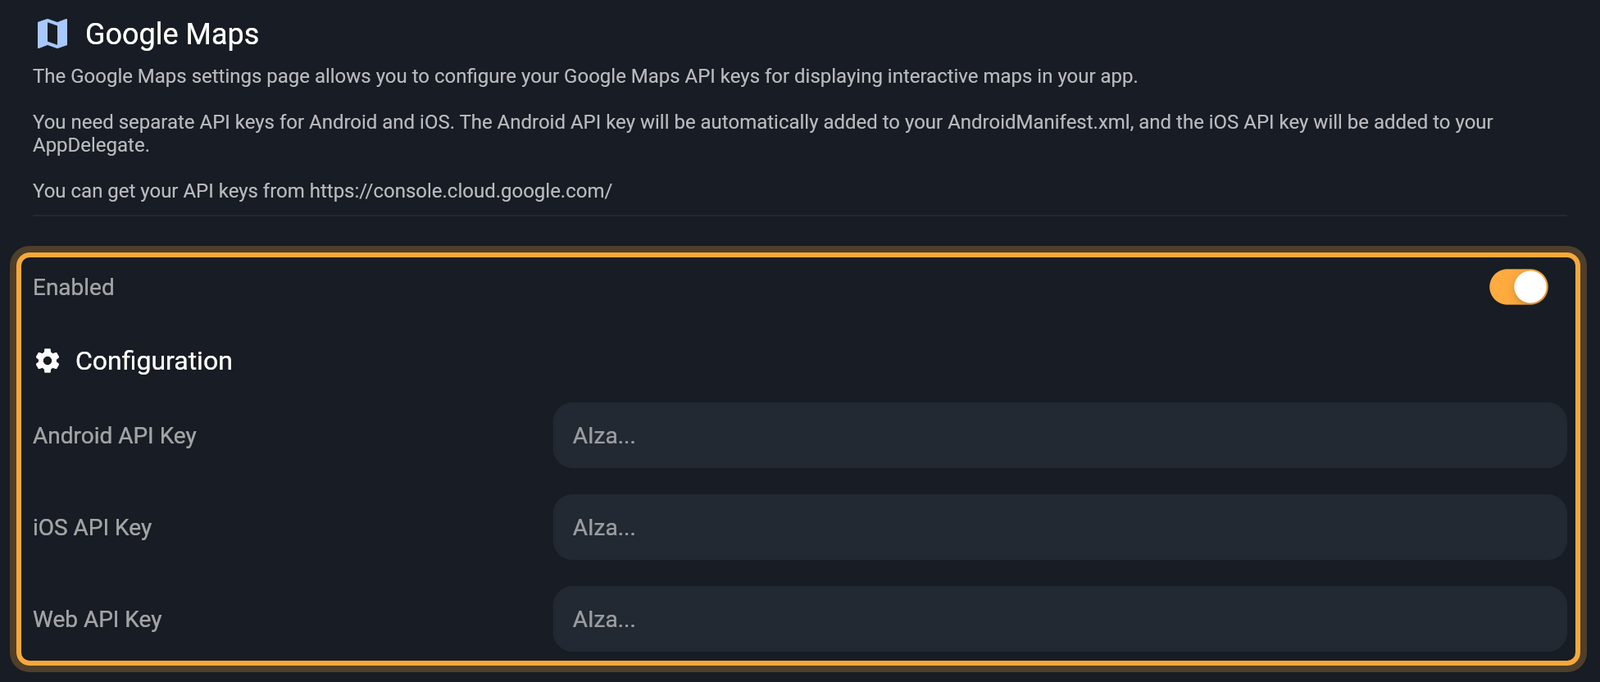
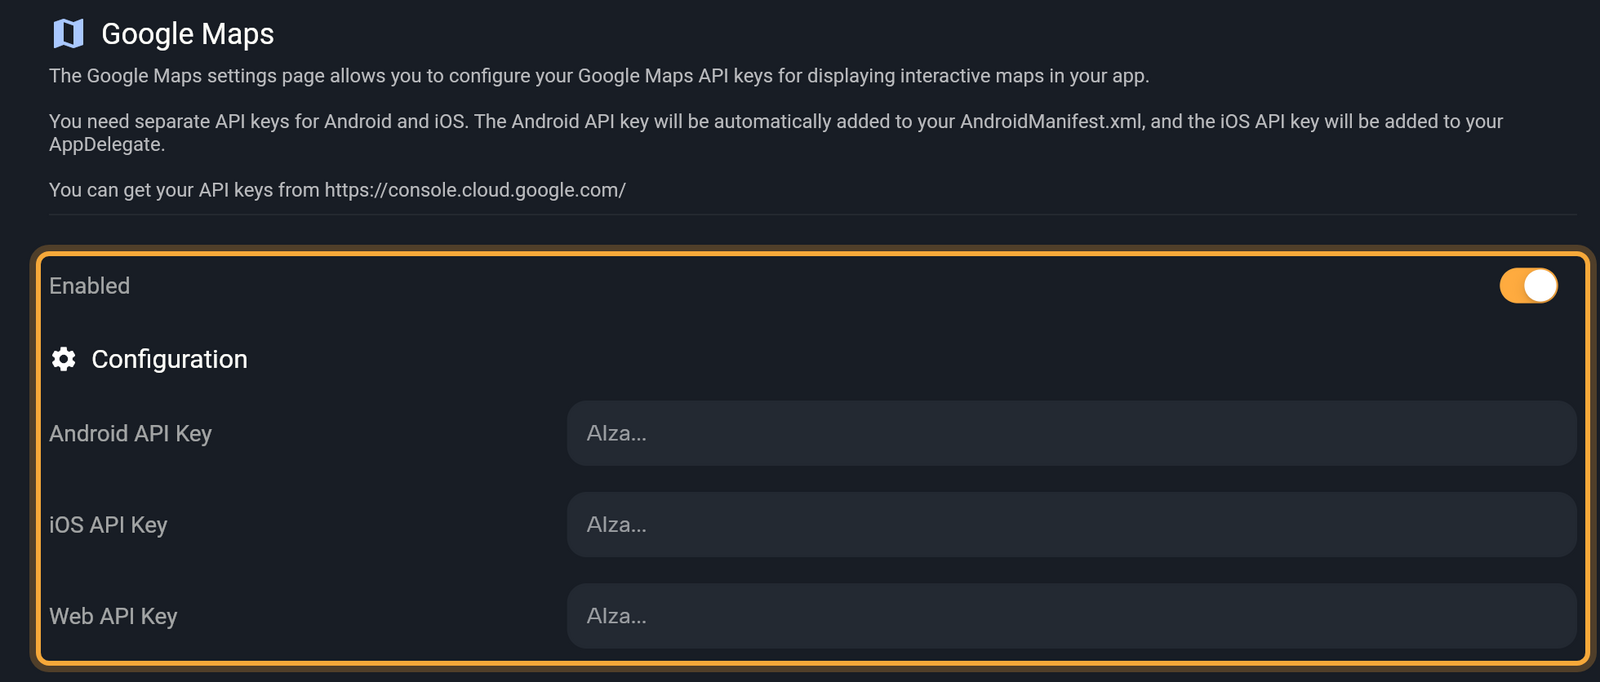
Update the editor and design pages to Nowa 3.13; add the Library page
New page Find and add things with the Library (design/library), added to the
sidebar before Add widgets. Add widgets, components, boards, screens, select and
edit, outline, the editor tour, welcome, desktop app (Linux) and the glossary
now describe 3.13 (W30a, to be verified).

Claude-Session: https://claude.ai/code/session_01CvjREJT7NCVTsCb3JhoYvz

diff --git a/sidebars.js b/sidebars.js
@@ -59,6 +59,7 @@ const sidebars = {
         'design/boards',
         'design/screens',
         'design/components',
+        'design/library',
         'design/add-widgets',
         'design/select-and-edit',
         'design/properties',

diff --git a/docs/code/packages.md b/docs/code/packages.md
@@ -38,6 +38,8 @@ A few packages need phone permissions, such as `geolocator` for location. For th
 
 In a local project Nowa also runs `flutter pub get`.
 
+Leave the **Version** of a package with a `git:` or `path:` source empty. A version you type there replaces its `git:` or `path:` entry in `pubspec.yaml`.
+
 ## Remove a package
 
 Point at the package's **Version** and click the **×** at its right end. Nowa removes it from `pubspec.yaml` and unloads it. In a local project it also runs `flutter pub get`.
@@ -46,20 +48,31 @@ Code that still imports the package shows a problem: `'<name>' is imported but i
 
 ## How Nowa loads your packages
 
-- **Plain pub.dev packages only.** Nowa loads the packages under `dependencies` that list only a version. A package from Git, a local path or another host, an `sdk:` package, and anything under `dev_dependencies` isn't loaded. If your code imports a dev dependency, **Problems** says `'<name>' is a dev dependency, so Nowa does not load it. Move it to dependencies to use it in lib/.`
+- **pub.dev, Git and path packages.** Nowa loads the packages under `dependencies` that list a version. It also lists packages with a `git:` or `path:` source, with an empty **Version** in the table, and in a local project loads them from where `flutter pub get` put them. An `sdk:` package such as `flutter_localizations` counts as installed but isn't loaded. A package from another host and anything under `dev_dependencies` isn't loaded. If your code imports a dev dependency, **Problems** says `'<name>' is a dev dependency, so Nowa does not load it. Move it to dependencies to use it in lib/.`
 - **Only the packages you list.** Packages that your packages depend on aren't loaded for you. If your code imports one, add it to your list too.
 - **After the project opens.** Packages load in the background. **Problems** shows "Loading packages..." and reports nothing until they finish.
 - **When one won't load.** **Problems** says `'<name>' is installed but failed to load, so nothing it defines is available:` and gives the reason.
-- **Built-in support or placeholders.** Nowa has built-in support for popular packages, such as `provider`, `go_router`, `dio`, `shared_preferences`, `flutter_svg`, `lottie` and `rive`. For any other package, Nowa reads what it offers, but its widgets show as placeholders on the board and its functions return stand-in values. **Run** uses the real package. See [What Nowa can show on the board](limitations.md).
-- **`nowa_runtime`.** Nowa keeps it at the version your Nowa release expects, so a version you type for it is reset when the project opens.
+- **Built-in support or placeholders.** Nowa has built-in support for popular packages, such as `provider`, `go_router`, `dio`, `shared_preferences`, `flutter_svg`, `lottie`, `rive`, `gap`, `flutter_animate`, `google_fonts` and `smooth_page_indicator`. For any other package, Nowa reads what it offers, but its widgets show as placeholders on the board and its functions return stand-in values. **Run** uses the real package. See [What Nowa can show on the board](limitations.md).
+- **`nowa_runtime`.** Nowa keeps it at the version your Nowa release expects (`^0.2.0` in Nowa 3.13), so a version you type for it is reset when the project opens. That version no longer includes `smooth_page_indicator`: see [Handle the Page indicator migration](#page-indicator-migration).
 
 :::note
-Nowa doesn't list or load packages from Git, a local path or another host, so **Problems** may say such a package "is imported but is not in the pubspec." Don't click **Fix** for it. **Fix** looks the name up on pub.dev and, if it finds a package, writes that version over your entry.
+Nowa doesn't list or load packages from another host, so **Problems** may say such a package "is imported but is not in the pubspec." Don't click **Fix** for it. **Fix** looks the name up on pub.dev and, if it finds a package, writes that version over your entry.
 :::
+
+## Handle the Page indicator migration {#page-indicator-migration}
+
+Older versions of `nowa_runtime` came with the `smooth_page_indicator` package, which draws the dots of a Page View. Version 0.2.0 doesn't. When you open a project that uses those dots without listing the package, Nowa shows **Page indicator migration**: "nowa_runtime no longer includes smooth_page_indicator. Nowa will add it to your pubspec and import it in `<files>`."
+
+- Click **Migrate**. Nowa adds `smooth_page_indicator` to `pubspec.yaml` and adds its import to each file that uses it. If adding the package fails, Nowa shows "Could not add smooth_page_indicator to the pubspec".
+- Click **Later** to leave everything as it is. The dialog comes back the next time you open the project.
+
+The **Onboarding Screen** template adds the package itself. See [Start from a template](../design/templates.md).
 
 ## Edit pubspec.yaml yourself
 
 `pubspec.yaml` is a normal file in [code mode](code-mode.md). To have Nowa load a new package right away, add it on the **Packages** page instead. After you change `pubspec.yaml` by hand, click **Pub get** (the terminal icon) in the **Logs** tab of the **Console** to fetch the packages. See [Run your app](../test/run.md#read-the-logs).
+
+In a local project, Nowa also re-reads `pubspec.yaml` when files change outside Nowa, for example after a branch switch or an edit in another editor, and loads the dependencies you added there. If that fails, **Logs** says "Could not load the dependencies added outside Nowa" followed by the error.
 
 Nowa also keeps the `assets` and `fonts` lists in `pubspec.yaml` in step with your `assets/` folder. See [Images, videos and other files](../design/assets.md).
 

diff --git a/docs/code/vs-code.md b/docs/code/vs-code.md
@@ -26,8 +26,8 @@ VS Code opens your project folder at the file you were viewing. If the open tab 
 
 Two more shortcuts:
 
-- Right-click a file or folder in the **Files** panel and choose **View in folder** to show its folder in your file manager.
-- On a text file tab opened with **Show file content**, click **Open in VS Code** in the details panel.
+- In code mode, right-click a file or folder in **Files** and choose **View in folder** to show its folder in your file manager.
+- Outside code mode, on a plain text file tab, click **Open in VS Code** in the details panel.
 
 If Nowa can't start VS Code, it opens the file in its own editor tab instead. Check the path in the next section.
 
@@ -39,7 +39,7 @@ Nowa starts VS Code by running the `code` command that lives in a folder you cho
 2. Under **Editor Settings**, click **Local Setup**.
 3. In **VS code Path**, enter the folder that contains the `code` command, or click **Browse**.
 
-The default is `/usr/local/bin` on macOS and `C:\Program Files\Microsoft VS Code\bin` on Windows. If your computer has no `code` command, [install it from VS Code](https://code.visualstudio.com/docs/editor/command-line) first.
+The default is `/usr/local/bin` on macOS, `/usr/bin` on Linux and `C:\Program Files\Microsoft VS Code\bin` on Windows. If your computer has no `code` command, [install it from VS Code](https://code.visualstudio.com/docs/editor/command-line) first.
 
 ## What syncs and when
 
@@ -48,11 +48,12 @@ Nowa watches your project folder, so you never copy anything between the two too
 | You do this | What happens |
 |---|---|
 | Save in Nowa (<kbd>Ctrl</kbd>/<kbd>Cmd</kbd> + <kbd>S</kbd>, or autosave) | Nowa writes your changes to the files in the folder, so VS Code sees them. In code mode, the edits you typed are compiled into the design on save. |
-| Save a file in VS Code | Nowa notices a moment later and reloads the file. The board updates, and a new file in `lib/` shows up too. |
-| Switch branches or pull in VS Code or a terminal | When more than 10 files change at once, Nowa re-reads the whole project. |
+| Save a file in VS Code | Nowa notices a moment later and reloads the file. The board updates, and a new file in `lib/` shows up too. A new file in the `lib/` or `boards/` folder of a package in a workspace shows up as well. |
+| Edit a file right after Nowa saves it | Your edit counts. Nowa remembers what it wrote and compares it with what is on disk, so an outside change isn't lost, however soon it comes. A save that writes a temporary file and renames it over the original counts as a change too. |
+| Switch branches or pull in VS Code or a terminal | When more than 10 files change at once, Nowa re-reads the whole project. After any outside change Nowa also re-reads `pubspec.yaml` and loads the dependencies you added there. |
 | Change a file in both places before saving | If you have unsaved edits in Nowa's code editor when the file changes on disk, a banner says "This file changed while you were editing it". Click **Keep mine** or **Reload**. |
 
-Autosave is on by default. To change how often it runs, click the save icon in the status bar (tooltip **Save options**) and use **Auto save** and **Save every**. Nowa ignores `.git/`, `build/` and `.DS_Store`.
+Autosave is on by default. To change how often it runs, click the save icon in the status bar (tooltip **Save options**) and use **Auto save** and **Save every**. Nowa ignores `.git/`, `build/` and `.DS_Store`, and never loads the hidden temporary files that editors create while saving, such as `.!123!main.dart`.
 
 ## What to expect from your code
 

diff --git a/_rewrite/reviews/W30a-writer-notes.md b/_rewrite/reviews/W30a-writer-notes.md
@@ -11,7 +11,7 @@ Refs are `path:line` in the 3.13 tree unless marked `3.12.5:`.
 Title "Find and add things with the Library" (sidebar_label "Library"). Heading anchors (auto slugs, no explicit ids):
 `#open-the-library`, `#choose-where-to-look`, `#find-something`, `#add-something-to-the-board`, `#preview-a-row`,
 `#open-rename-delete-and-move`, `#create-things-from-the-library`, `#use-the-keyboard`.
-Size: about 1,600 words by `wc -w` (about 1,300 words without markup and key tags). Over the style guide's 1,200 hint because it
+Size: 1,630 words by `wc -w` (about 1,370 words without table markup, key tags and capture comments). Over the style guide's 1,200 hint because it
 holds four reference tables; it could be split into "Library" and "Library reference" if the orchestrator wants.
 
 Claims and code refs:
@@ -267,3 +267,24 @@ get-started-desktop-app-1 (Linux button) and design-outline-2 (Back button, Boar
    ⌘⏎ on every system".
 8. "Login flow" becoming `login_flow` (from the research; not run live).
 9. The filter menu entry "Classs" (typo) is not listed anywhere.
+
+## Where the code differs from changes-3.13.md (the code won, pages follow the code)
+
+1. Source chips and search: the research's add-widgets row says "**Filter** (default **Widgets**) and the source chips narrow the
+   search". In the code the chips are hidden while a query is typed (`packages/nowa_ui/lib/library/library_panel.dart:782`) and a search
+   always walks all four sources (`library_panel.dart:254-275`, `for (final source in LibrarySource.values)`). The pages say that
+   only **Filter** narrows search results, and that the chips hide while you search.
+2. Ranking: "Nowa's picks first, then starts-with, then A to Z" holds inside each source group (`library_panel.dart:393-397`); the groups
+   come in the order Project, Packages, Built-in, Assets (`library_contract.dart:36`, enum order), so the highlighted first result
+   can be a Project row when a project item matches. The pages say "in a group" and never promise that Enter inserts Nowa's widget.
+3. **Add** menu targets: the research says the menu "creates in the highlighted row's `lib` folder (else `lib`)". In the code only
+   **New Folder...** (`add_lib_menu.dart:50-59`), plugin entries like **API Collection...** (target dir argument, although the API
+   collection itself goes to `lib/api`, `api_util.dart:131`) and the upload use the highlighted folder; **New Widget...** goes to
+   `lib/pages` or `lib/components` through the template dialog (`file_actions.dart:65`), **New Model...** to `lib/models` and
+   **New Global State...** to `lib/globals`. The page states only what is certain per entry.
+4. Library **Delete** key: the research says "no Delete-key action"; the code goes one step further (the global Delete shortcut reaches
+   `RemoveFileAction` with an empty selection and returns). Same user-visible result; the page says the key doesn't act on Library rows.
+5. Details card live preview: the research says "live preview for Nowa's picks, project widgets and assets". `canPreview` is true for
+   Nowa's picks and project widgets only (`library_service.dart:92-95`); assets use `_AssetPreview` (`library_actions.dart:93-132`),
+   which draws the file's own thumbnail when it has one and nothing otherwise. The page says "show a preview" for these three and "an icon"
+   for everything else.

diff --git a/docs/code/git.md b/docs/code/git.md
@@ -61,7 +61,7 @@ If a **Pull** brings in changes that clash with yours, **Resolve Conflicts** ope
 
 ## Work with branches
 
-Click the branch name at the top of the panel. A star marks the current branch.
+Click the branch name at the top of the panel. The menu opens below it, with a **Search branches** field that filters your local branches and the remote branches you don't have locally yet. A star marks the current branch.
 
 | To | Do this |
 |---|---|
@@ -71,7 +71,7 @@ Click the branch name at the top of the panel. A star marks the current branch.
 | Merge | Hover another branch, click **Merge into current branch**, then **Merge**. Commit or discard your changes first. |
 | Delete | Hover a local branch you're not on, click **Delete branch**, then **Delete Branch**. The remote branch stays. |
 
-{/* CAPTURE: id=code-git-2 | state: signed in, Git panel open on a branch with another local branch and a remote-only branch; click the branch name, then click another branch while a file you changed differs on that branch | show: the open branch menu (star on the current branch, Local and Remote headings, New Branch) and the Switch branch? dialog with Cancel and Bring my changes | crop: left panel + dialog */}
+{/* CAPTURE: id=code-git-2 | state: signed in, Git panel open on a branch with another local branch and a remote-only branch; click the branch name, then click another branch while a file you changed differs on that branch | show: the open branch menu below the branch row (the Search branches field, star on the current branch, Local and Remote headings, New Branch) and the Switch branch? dialog with Cancel and Bring my changes | crop: left panel + dialog */}
 
 ## Resolve conflicts
 
@@ -92,10 +92,10 @@ Expand **Commit History** at the bottom of the panel (**Refresh Commits** reload
 | Action | What it does |
 |---|---|
 | **Copy SHA** | Copies the commit's ID. |
-| **Undo Commit** | Takes back your latest commit and moves its changes to **Staged Changes**. It works only on the latest commit, and only before you push it. |
-| **Revert Commit** | Undoes the changes of the commit you picked, so it also works on older and pushed commits. In a local project the undone changes appear under **Staged Changes**; commit them to finish. |
+| **Undo commit** | Takes back your latest commit and moves its changes to **Staged Changes**. It works only on the latest commit, and only before you push it. |
+| **Revert commit** | Undoes the changes of the commit you picked, so it also works on older and pushed commits. In a local project the undone changes appear under **Staged Changes**; commit them to finish. |
 
-Neither works on a repository's first commit. With uncommitted changes they do nothing, even if a success message appears, so commit or discard first.
+Both are greyed out when they can't run. Neither works on a repository's first commit. With the **View Only** role the menu has only **Copy SHA**. With uncommitted changes they do nothing, even if a success message appears, so commit or discard first.
 
 ## Move work between a cloud and a local project
 

diff --git a/_rewrite/captures/log.md b/_rewrite/captures/log.md
@@ -65,7 +65,7 @@ One row per saved capture (the embed script reads this table: keep the format ex
 | integrations-constants-1 | /img/docs/integrations/integrations-constants-1.png | The Constants page in Settings, with the General (Project Details, Packages, Constants) and Integrations lists on the left, and the page description on the right. The Custom Constants section (highlighted) shows its plus button and one custom constant: the name weatherApiKey, the value demo-key and a remove (X) button. | yes (3.13.0) |
 | integrations-index-1 | /img/docs/integrations/integrations-index-1.png | The Settings list on the left of App Settings. The General group shows Project Details (selected), Packages and Constants. The Integrations group is highlighted: Google Maps, AdMob, RevenueCat, Deep Links, Google Sign-In, Stripe and Firebase. | yes (3.13.0) |
 | integrations-admob-1 | /img/docs/integrations/integrations-admob-1.png | The AdMob page in Settings with its description and the note about adding keys for both platforms. The Enabled switch (on) and, under Configuration, the Android App ID and iOS App ID fields showing the ca-app-pub placeholder are highlighted. | yes (3.13.0) |
-| integrations-google-maps-1 | /img/docs/integrations/integrations-google-maps-1.png | The Google Maps page in Settings with its description. The Enabled switch (on) and, under Configuration, the Android API Key, iOS API Key and Web API Key fields showing the AIza placeholder are highlighted. | yes |
+| integrations-google-maps-1 | /img/docs/integrations/integrations-google-maps-1.png | The Google Maps page in Settings with its description. The Enabled switch (on) and, under Configuration, the Android API Key, iOS API Key and Web API Key fields showing the AIza placeholder are highlighted. | yes (3.13.0) |
 | integrations-revenuecat-1 | /img/docs/integrations/integrations-revenuecat-1.png | The home screen on the board with the RevenueCat Paywall added below the Home Page title: a light purple placeholder card (highlighted) with a card icon, the label RevenueCat Paywall and the text Run to preview. | yes |
 | get-started-mobile-1 | /img/docs/get-started/get-started-mobile-1.png | The phone layout of Nowa at 390 by 844 px. The top row (highlighted) has the back arrow, the green status pill, Build, Play and More. Below are the Search project box with the carousel and list toggle, the All, Pages and Components tabs, the HomePage card in the carousel, the suggestion chips, and the Ask Nowa AI chat pill with its microphone at the bottom (highlighted). | yes |
 | get-started-create-account-1 | /img/docs/get-started/get-started-create-account-1.png | The Create your account sign-up form, empty. The highlighted block holds First name, Last name, Email, Password and Repeat password with their hint texts, the I accept the terms and conditions box, the ticked I want to receive emails box, and the Create account button. Below are Or, the Continue with Google and Continue with Apple buttons, and the Sign in and Build an app, no account needed links. | yes |

diff --git a/docs/code/import.md b/docs/code/import.md
@@ -77,11 +77,11 @@ Nowa treats a folder as a monorepo when its `pubspec.yaml` lists `workspace:` me
 
 ## What to expect on the board
 
-- **A project without boards opens on an empty board.** Your screens and components are in the **Widgets** panel as **Page** and **Component** tiles. Drag one onto the board to see it.
+- **A project without boards opens on an empty board.** Your screens and components are in the [Library](../design/library.md) (<kbd>Ctrl</kbd>/<kbd>Cmd</kbd> + <kbd>2</kbd>) under **Project**. Drag one onto the board to see it, or double-click it to open it on its own.
 - **Nowa draws your code by interpreting it, not compiling it.** Parts it can't draw show as placeholders, and anything it skips is reported in the **Problems** tab. Click **Run** to compile the whole app and see the real output. See [What Nowa can show on the board](limitations.md) and [Write your own code](custom-code.md).
-- **Nowa adds a `.nowa` folder** with its settings. Its `temp/` folder and `thumbnail.png` are Git-ignored.
+- **Nowa adds a `.nowa` folder** with its settings. Its `temp/` folder and `thumbnail.png` are Git-ignored. Nowa no longer raises the `version` in `.nowa/settings.json` to match each new release, so updating Nowa doesn't make that file show up as modified in [Git](git.md).
 - **FlutterFlow exports work too.** Nowa draws pages that use `safeSetState`, custom functions and Firestore records with placeholder data, even without a Firebase connection on the board.
-- **Code you change visually is rewritten.** On save, Nowa adds `@NowaGenerated` and an import of `package:nowa_runtime/nowa_runtime.dart`, turns relative imports into `package:` imports, reorders constructor parameters and writes `16` as `16.0`. Code you don't touch stays as you wrote it.
+- **Code you change visually is rewritten.** On save, Nowa adds `@NowaGenerated` and an import of `package:nowa_runtime/nowa_runtime.dart`, turns relative imports into `package:` imports, reorders constructor parameters and writes `16` as `16.0`. Code you don't touch stays as you wrote it, including a `main()` function of your own (one without `@NowaGenerated`) and the `library;` and `part` lines of a file.
 
 :::tip
 Commit before you start editing visually. The [Git](git.md) panel then shows exactly what Nowa changed in your files.

diff --git a/docs/code/limitations.md b/docs/code/limitations.md
@@ -50,13 +50,13 @@ Widgets, `State` and `ChangeNotifier` classes work as you'd expect. You can also
 
 ### Imports and packages
 
-- `package:` imports are the best supported form. `part` and `part of` aren't followed.
+- `package:` imports are the best supported form. `part` and `part of` aren't followed. When Nowa rewrites a file you changed visually, it keeps the `library;`, `part '...';` and `part of '...';` lines and adds no generated imports to a part file.
 - `show` is ignored, so a `show` import brings in the whole file. A conditional import, such as `if (dart.library.io)`, uses its default file.
-- Only the packages you list under `dependencies` with a version are loaded. Packages from Git or a local path aren't, and neither are the packages your packages depend on. See [Add packages](packages.md).
+- Nowa loads the packages you list under `dependencies` with a version. It also lists packages with a `git:` or `path:` source, and in a local project loads them from where `flutter pub get` put them. An `sdk:` package, such as `flutter_localizations`, counts as installed but isn't loaded. Packages from another host, anything under `dev_dependencies` and the packages your packages depend on aren't loaded. See [Add packages](packages.md).
 
 ### What runs differently
 
-- In a constructor's initializer list, `super(...)` and `assert(...)` don't run. Set fields directly, or use `super.name` parameters.
+- In a constructor's initializer list, `assert(...)` doesn't run, and neither does a positional argument of `super(...)`. The named arguments of `super(name: x)` are read like `super.name`. Set other fields directly, or use `super.name` parameters.
 - A call to `super.method()` doesn't run the parent method and gives back nothing.
 - Putting an object in text, as in `'$item'`, ignores the `toString()` you wrote. Call it yourself, as in `'${item.toString()}'`, or use a getter such as `item.label`.
 - A `try` with more than one `catch` clause fails with "Multiple catch clauses are not supported yet" when something is thrown. Use one `catch` and check the type inside.

diff --git a/docs/logic/global-state.md b/docs/logic/global-state.md
@@ -13,7 +13,7 @@ Start local: move a value to global state only when a second screen needs it. [P
 
 ## Create a global state
 
-1. Open **Files** in the sidebar. Next to the `lib` folder, click **+** (**Add to library**), then **New Global State...**. Inside `lib`, the **Add** button opens the same menu.
+1. Open the [**Library**](../design/library.md) in the sidebar and click **Add** (+) in its header, then **New Global State...**.
 2. Type a name, such as `CartState`. Nowa fills in the **Class name** and the **Path** (the file name) for you. Click either one to change it.
 3. Click **Submit**. Nowa creates the file in `lib/globals` and attaches it to your app.
 
@@ -23,8 +23,9 @@ New projects already include a global state named **AppState** (`lib/globals/app
 
 ## Add variables and functions
 
-1. In **Files**, double-click the global state's file. A single click only shows a preview.
-2. Click the class name, such as `CartState`, in the list on the left. Its **Variables** and **Functions** appear in the middle.
+1. In the **Library**, click **Filter** and choose **Global states**. The default filter, **Widgets**, hides them. Your global states are under **Project**.
+2. Double-click the global state, such as `CartState`, or select it and press <kbd>Enter</kbd>. A single click only shows a details card. The global state opens in its own tab.
+3. Click the class name, such as `CartState`, in the list on the left. Its **Variables** and **Functions** appear in the middle.
 3. Hover **Variables** and click **+**. Rename the new variable, then set its **Type** and **Default Value** on the right. See [Store data in variables](./variables.md). Keep **Is Final** off for a variable your functions will change.
 4. Hover **Functions** and click **+**. Rename the new function, for example `addToCart`. Circuit opens on the right: see [Build logic in Circuit](./circuit.md).
 5. Click the top node, hover **Params** and click **+** to add an input such as `product`. Click the new param to set its **Name** and **Type**.

diff --git a/docs/code/local-projects.md b/docs/code/local-projects.md
@@ -11,13 +11,13 @@ A local project is a normal Flutter project that lives in a folder on your compu
 
 ## Before you start
 
-- Install the [Nowa desktop app](../get-started/desktop-app.md). It needs a plan that includes it. If yours doesn't, the app shows "Upgrade to unlock desktop version, or use on web at app.nowa.dev". See [pricing](https://nowa.dev/pricing).
+- Install the [Nowa desktop app](../get-started/desktop-app.md), for macOS, Windows or Linux. It needs a plan that includes it. If yours doesn't, the app shows "Upgrade to unlock desktop version, or use on web at app.nowa.dev". See [pricing](https://nowa.dev/pricing).
 - Set up Flutter. Nowa needs the Flutter SDK to create and run projects. If you see **Flutter SDK not found**, follow [Set up Flutter](../get-started/desktop-app.md#setting-up-flutter-sdk).
 
 A local project differs from a cloud project in three ways:
 
 - **Where it shows up.** Local projects are listed under **On this device** in the desktop app only. Other computers and the web app don't see them.
-- **What you gain.** You can [open it in VS Code](vs-code.md), jump to its folder with **View in folder** (right-click a file in the **Files** panel), and use the [Git](git.md) panel on the repository in that folder.
+- **What you gain.** You can [open it in VS Code](vs-code.md), jump to its folder with **View in folder** (in code mode, right-click a file in **Files**), and use the [Git](git.md) panel on the repository in that folder. Nowa also picks up files you change outside it: see [What syncs and when](vs-code.md#what-syncs-and-when).
 - **What you give up.** **Deploy**, Cloud Build, **Share preview**, **Public project**, **Move to workspace...** and code download are for cloud projects. To use them, link a cloud copy with [Project Sync](#link-a-cloud-copy-with-project-sync).
 
 For a side-by-side comparison, see [Cloud and local projects](../get-started/cloud-and-local.md).

diff --git a/docs/design/library.md b/docs/design/library.md
@@ -26,11 +26,11 @@ The chips **Project**, **Packages**, **Built-in** and **Assets** turn sources on
 | **Built-in** | Nowa's own widgets in groups such as **Basic**, **Buttons** and **Layout**, then Flutter's libraries, **Material** and **Cupertino** first. |
 | **Assets** | The folders and files in your `assets/` folder. |
 
-**Filter** chooses which kinds show. **Widgets** (screens, components and widgets) is the default, so models and global states stay hidden until you pick **Everything** or one kind: **Screens**, **Components**, **Models**, **Global states**, **Functions**, **Enums** or **Variables**. **Private** adds your project's private names, the ones that start with an underscore. Assets always show. **Show as a list** flattens the folders into one list, and **Show as a tree** brings them back.
+**Filter** opens a menu headed **Show**, where you choose which kinds show. **Widgets** (screens, components and widgets) is the default, so models and global states stay hidden until you pick **Everything** or one kind: **Screens**, **Components**, **Models**, **Global states**, **Functions**, **Enums** or **Variables**. **Private** adds your project's private names, the ones that start with an underscore. Assets always show. **Show as a list** flattens the folders into one list, and **Show as a tree** brings them back.
 
 ## Find something
 
-Type in the search field. It looks in all four sources, whatever the chips say, and lists every name that contains what you typed. The hint tells you what <kbd>Enter</kbd> does.
+Type in the search field. It looks in all four sources, whatever the chips say (they hide while you search), and lists every name that contains what you typed. The hint tells you what <kbd>Enter</kbd> does.
 
 | Hint | How you get it | <kbd>Enter</kbd> | <kbd>Ctrl</kbd>/<kbd>Cmd</kbd> + <kbd>Enter</kbd> |
 |---|---|---|---|

diff --git a/docs/design/add-widgets.md b/docs/design/add-widgets.md
@@ -10,7 +10,7 @@ Add a widget in seconds: press <kbd>Ctrl</kbd>/<kbd>Cmd</kbd> + <kbd>K</kbd>, ty
 ## Add a widget from the Library {#add-a-widget-with-the-widget-picker}
 
 1. Click **Widget** in the toolbar, or press <kbd>Ctrl</kbd>/<kbd>Cmd</kbd> + <kbd>K</kbd>. The [Library](library.md) opens with the search ready, and the field reads **Add...**.
-2. Type part of a name, such as `text` or `button`. Results come in groups by source (**Project**, **Packages**, **Built-in** and **Assets**), and Nowa's own widgets come first in each group. **Filter** and the chips under the search narrow the list. A row such as **Show 3 more of other kinds** reveals the rest.
+2. Type part of a name, such as `text` or `button`. Results come in groups by source (**Project**, **Packages**, **Built-in** and **Assets**), and Nowa's own widgets come first in each group. **Filter** narrows the results by kind. A row such as **Show 3 more of other kinds** reveals what it hides.
 3. Press <kbd>↓</kbd> to move through the results. The details card beside the panel shows a preview, the name and the first lines of the description.
 4. Press <kbd>Enter</kbd>, or double-click the result. The widget lands where your pointer last was on the board, and the keys go back to the board. To leave without adding anything, press <kbd>Esc</kbd> to clear the search and again to hand the keys back.
 
